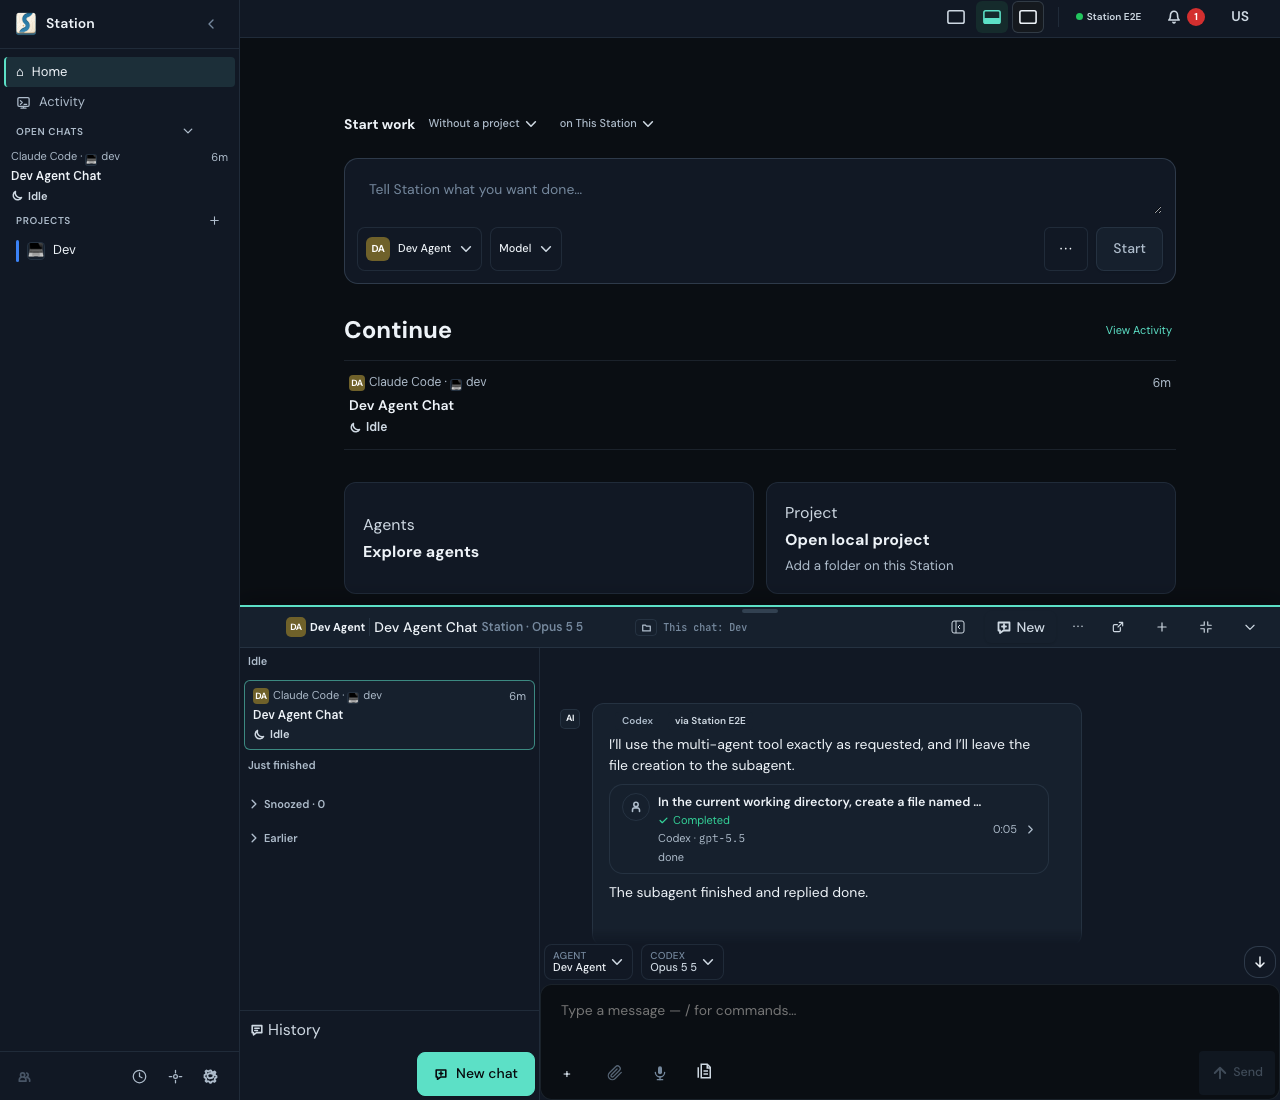
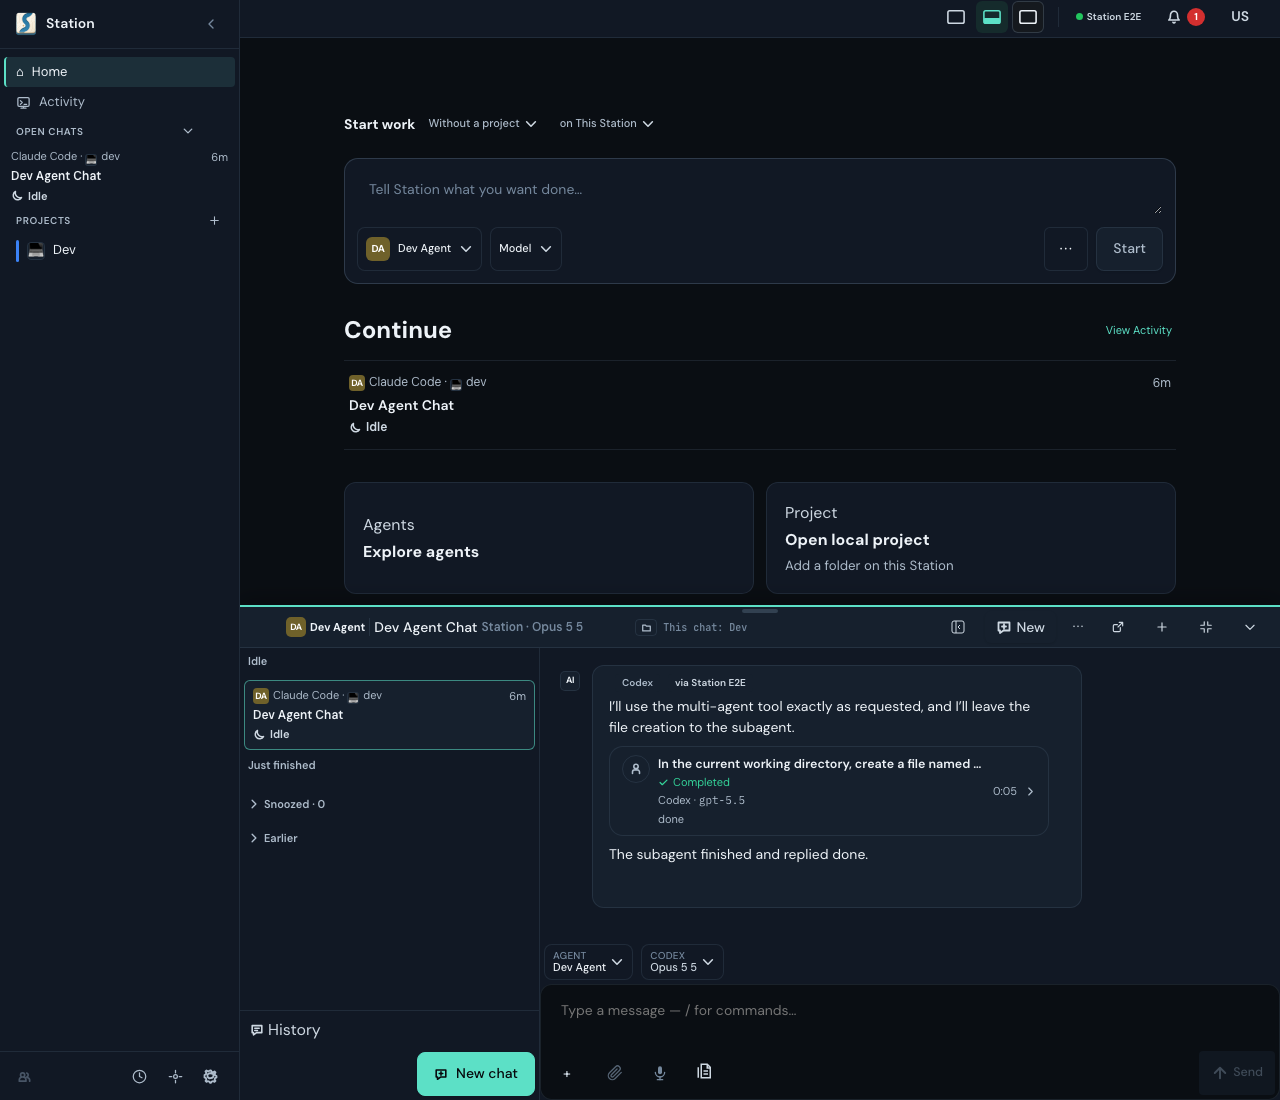
test(chat): qualify standalone transcript placement and refresh captures

Changed region(s): [[0.4688, 0.6182, 0.75, 0.8345], [0.75, 0.6182, 0.7812, 0.68]]

diff --git a/src-ui/src/__tests__/ChatMessageList.subagentCards.test.tsx b/src-ui/src/__tests__/ChatMessageList.subagentCards.test.tsx
@@ -119,7 +119,7 @@ function chatSession(): ChatSession {
 }
 
 let sequence = 0;
-function runtimeEvent<T extends Record<string, unknown>>(
+function runtimeEvent<const T extends Record<string, unknown>>(
   createdAt: string,
   fields: T,
 ) {
@@ -265,6 +265,70 @@ function settles(summary: string, item = runningChild) {
       identity: { ...identity, endedAt: '2026-10-14T14:42:05.000Z' },
     }),
   ];
+}
+
+function history65() {
+  const entries: Array<{ sequence: number; event: CanonicalRuntimeEvent }> =
+    Array.from({ length: 65 }, (_, index) => {
+      const call = `toolu_agent_${index}`;
+      const childId = `child-${index}`;
+      const turnId = 'turn-1';
+      const item: ChildWorkItem = {
+        ...runningChild,
+        childId,
+        parent: { toolCallId: call, turnId },
+        title: `Review ${index}`,
+        transcript: {
+          kind: 'claude-subagent',
+          sessionId: SESSION_ID,
+          agentId: childId,
+        },
+      };
+      return [
+        runtimeEvent(STARTED_AT, {
+          method: 'tool.started',
+          turnId,
+          itemId: call,
+          toolCallId: call,
+          toolName: 'Agent',
+          arguments: {},
+        }),
+        childWork(STARTED_AT, {
+          kind: 'snapshot',
+          producer: 'engine-subagent',
+          reporterThreadId: THREAD,
+          running: [item],
+        }),
+        runtimeEvent(STARTED_AT, {
+          method: 'tool.completed',
+          turnId,
+          itemId: call,
+          toolCallId: call,
+          toolName: 'Agent',
+          status: 'success',
+          output: 'Async agent launched successfully.',
+        }),
+        ...settles(`Result ${index}`, item),
+      ];
+    }).flat();
+  entries.unshift(
+    runtimeEvent(STARTED_AT, {
+      method: 'turn.started',
+      turnId: 'turn-1',
+      prompt: 'Review all 65 children',
+    }),
+  );
+  entries.push(
+    runtimeEvent(ENDED_AT, {
+      method: 'turn.completed',
+      turnId: 'turn-1',
+      finishReason: 'stop',
+    }),
+  );
+  return entries.map((entry, index) => ({
+    ...entry,
+    sequence: index + 1,
+  }));
 }
 
 function TranscriptHarness({ session }: { session: ChatSession }) {
@@ -493,24 +557,7 @@ describe('subagent transcript cards', () => {
     },
     {
       name: '65-child history',
-      events: [
-        ...spawningTurn()
-          .slice(0, 3)
-          .map((entry) => entry.event),
-        ...Array.from({ length: 65 }, (_, index) => {
-          const item: ChildWorkItem = {
-            ...runningChild,
-            childId: `history-${index}`,
-            title: `History child ${index}`,
-          };
-          return [
-            childWork(STARTED_AT, { kind: 'upsert', item }).event,
-            ...settles(`History result ${index}`, item).map(
-              (entry) => entry.event,
-            ),
-          ];
-        }).flat(),
-      ],
+      events: history65().map((entry) => entry.event),
     },
   ])(
     'each child renders exactly once live and on replay: $name',
@@ -1030,66 +1077,7 @@ describe('subagent transcript cards', () => {
   });
 
   test('all 65 completed children whose spawns are loaded keep their cards and results', async () => {
-    windowEvents.current = Array.from({ length: 65 }, (_, index) => {
-      const call = `toolu_agent_${index}`;
-      const childId = `child-${index}`;
-      const turnId = 'turn-1';
-      const item: ChildWorkItem = {
-        ...runningChild,
-        childId,
-        parent: { toolCallId: call, turnId },
-        title: `Review ${index}`,
-        transcript: {
-          kind: 'claude-subagent',
-          sessionId: SESSION_ID,
-          agentId: childId,
-        },
-      };
-      return [
-        runtimeEvent(STARTED_AT, {
-          method: 'tool.started',
-          turnId,
-          itemId: call,
-          toolCallId: call,
-          toolName: 'Agent',
-          arguments: {},
-        }),
-        childWork(STARTED_AT, {
-          kind: 'snapshot',
-          producer: 'engine-subagent',
-          reporterThreadId: THREAD,
-          running: [item],
-        }),
-        runtimeEvent(STARTED_AT, {
-          method: 'tool.completed',
-          turnId,
-          itemId: call,
-          toolCallId: call,
-          toolName: 'Agent',
-          status: 'success',
-          output: 'Async agent launched successfully.',
-        }),
-        ...settles(`Result ${index}`, item),
-      ];
-    }).flat();
-    windowEvents.current.unshift(
-      runtimeEvent(STARTED_AT, {
-        method: 'turn.started',
-        turnId: 'turn-1',
-        prompt: 'Review all 65 children',
-      }),
-    );
-    windowEvents.current.push(
-      runtimeEvent(ENDED_AT, {
-        method: 'turn.completed',
-        turnId: 'turn-1',
-        finishReason: 'stop',
-      }),
-    );
-    windowEvents.current = windowEvents.current.map((entry, index) => ({
-      ...entry,
-      sequence: index + 1,
-    }));
+    windowEvents.current = history65();
     renderTranscript();
     await screen.findByText('Result 0');
     expect(screen.getAllByTestId('subagent-card')).toHaveLength(65);

diff --git a/tests/subagent-transcript-cards.spec.ts b/tests/subagent-transcript-cards.spec.ts
@@ -199,25 +199,48 @@ test.describe('subagent transcript cards', () => {
             {
               provider: 'codex',
               threadId: SESSION_ID,
-              createdAt: STARTED_AT,
+              createdAt: captured[0].createdAt,
               eventId: 'standalone-start',
               method: 'turn.started',
               turnId: '00000000-0000-7000-8000-000000000002',
               prompt: 'Run the child without prose',
             },
-            ...captured.filter(
-              (event) => event.method !== 'content.text-delta',
-            ),
+            ...captured
+              .filter((event) => event.method !== 'content.text-delta')
+              .map((event) =>
+                event.method === 'turn.completed'
+                  ? { ...event, outputText: undefined }
+                  : event,
+              ),
           ]
         : captured;
       for (const event of events) await emit(page, event);
       const card = page.getByTestId('subagent-card');
       await expect(card).toHaveCount(1);
-      if (standalone)
+      if (standalone) {
         await expect(card.locator('xpath=..')).toHaveAttribute(
           'data-chat-message-key',
           /^subagent:/,
         );
+        await expect(
+          page.getByText('The subagent finished and replied done.', {
+            exact: true,
+          }),
+        ).toHaveCount(0);
+        const prompt = page.getByText('Run the child without prose', {
+          exact: true,
+        });
+        await expect(prompt).toBeVisible();
+        expect(
+          await prompt.evaluate((element) =>
+            Boolean(
+              element.compareDocumentPosition(
+                document.querySelector('[data-testid="subagent-card"]')!,
+              ) & Node.DOCUMENT_POSITION_FOLLOWING,
+            ),
+          ),
+        ).toBe(true);
+      }
       await expect(card.getByText('Completed')).toBeVisible();
       await expect(card.getByText('gpt-5.5')).toBeVisible();
       await expect(card.getByText('done', { exact: true })).toBeVisible();

diff --git a/src-ui/src/__tests__/SubagentTranscriptCard.streamingParity.test.tsx b/src-ui/src/__tests__/SubagentTranscriptCard.streamingParity.test.tsx
@@ -63,6 +63,7 @@ function events(): { sequence: number; event: CanonicalRuntimeEvent }[] {
       sequence: 0,
       event: {
         eventId: 'tool-start',
+        itemId: TOOL_CALL,
         provider: 'claude',
         threadId: THREAD,
         createdAt: child.startedAt!,
